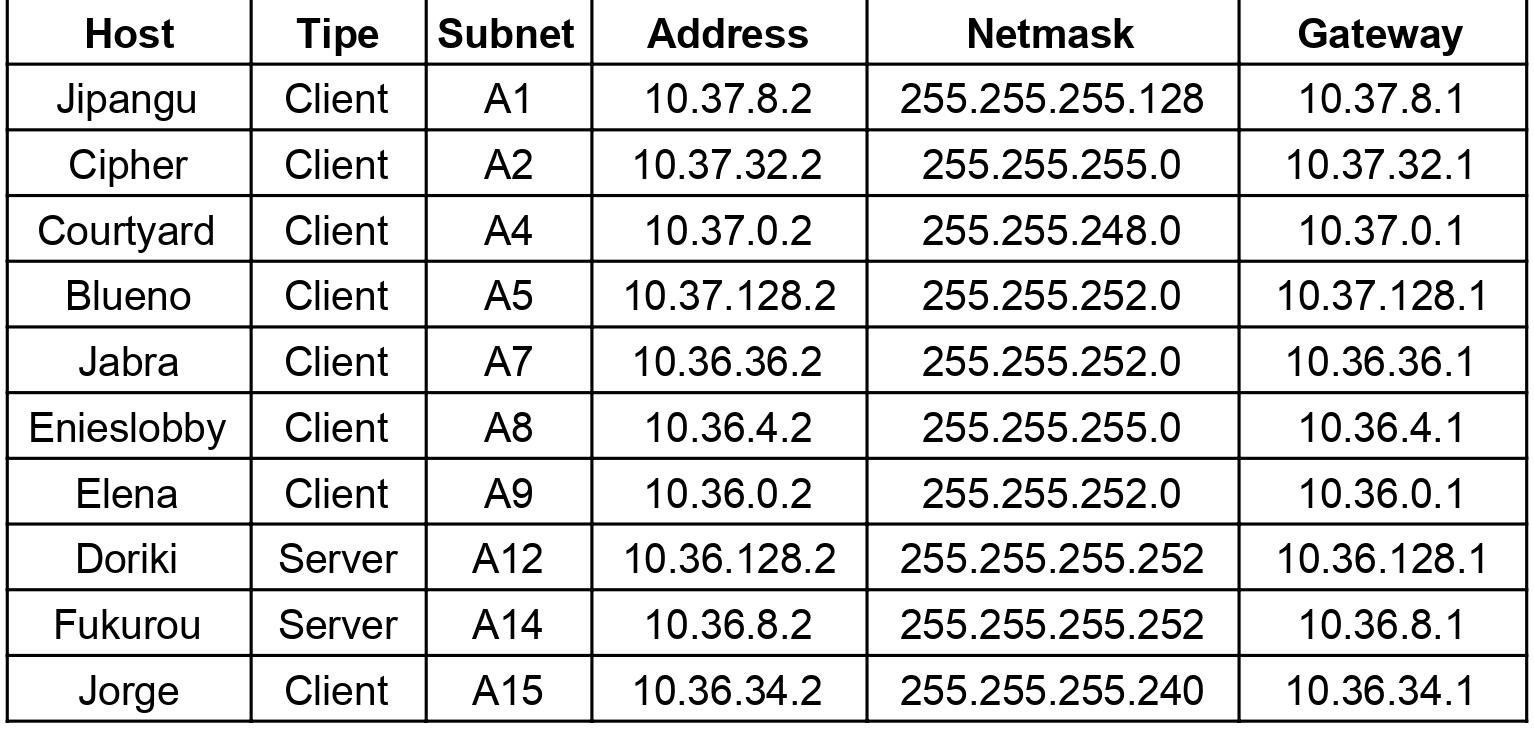
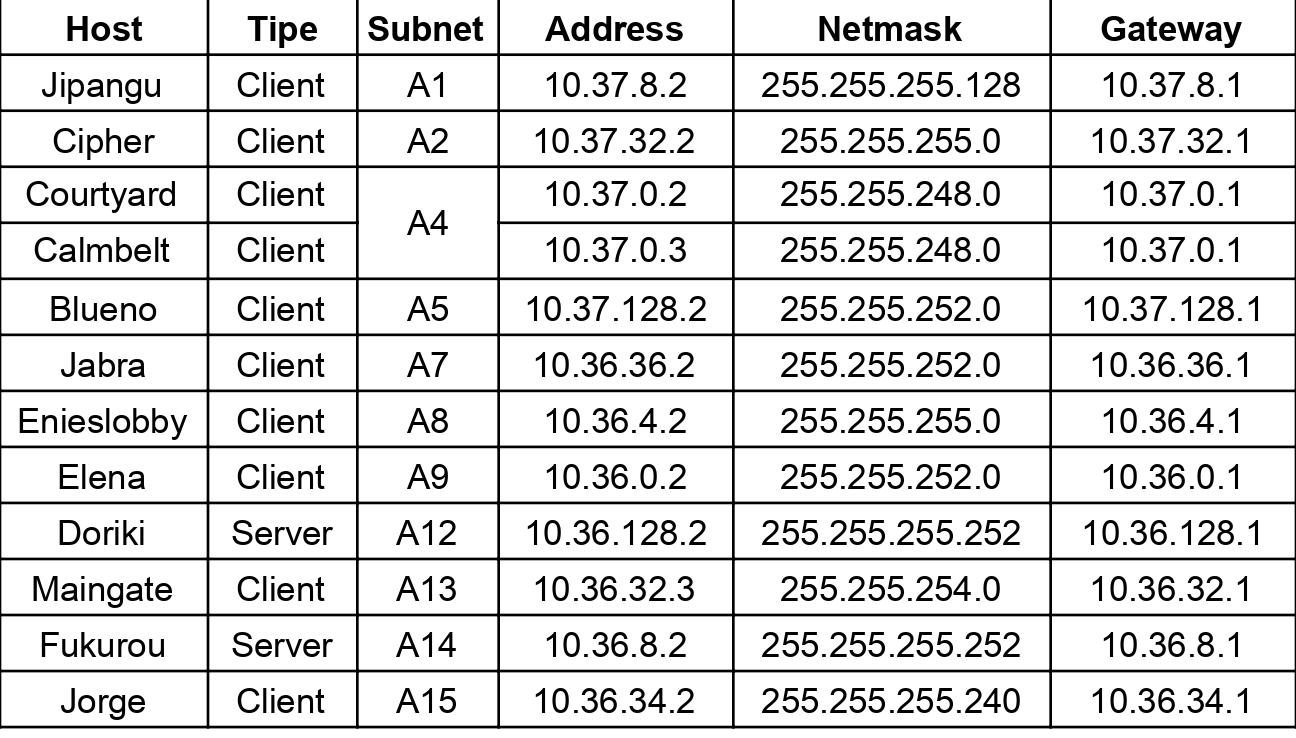
update README.md

diff --git a/README.md b/README.md
@@ -108,6 +108,8 @@ ip route 0.0.0.0 0.0.0.0 10.36.26.1                         #OIMO
 
 ## B. CIDR pada GNS3
 
+![topologi-gns3](img/topologi-gns3.png)
+
 ### 1. CIDR Subnetting
 
 Berikut proses penggabungan subnet-subnet dari paling bawah pada topologi:
@@ -279,7 +281,7 @@ Setelah didapatkan IP pada setiap subnet paling bawah, maka dicari netmask dan b
       auto eth3
       iface eth3 inet static
             address 10.36.64.1
-            255.255.255.252
+            netmask 255.255.255.252
 
       auto eth4
       iface eth4 inet static
@@ -428,6 +430,15 @@ Setelah didapatkan IP pada setiap subnet paling bawah, maka dicari netmask dan b
             address 10.37.0.2
             netmask 255.255.248.0
             gateway 10.37.0.1
+
+- Calmbelt
+      
+      
+      auto eth0
+      iface eth0 inet static
+            address 10.37.0.3
+            netmask 255.255.248.0
+            gateway 10.37.0.1
       
 
 - Blueno
@@ -469,6 +480,14 @@ Setelah didapatkan IP pada setiap subnet paling bawah, maka dicari netmask dan b
             netmask 255.255.252.0
             gateway 10.36.0.1
       
+- Maingate
+
+      auto eth0
+      iface eth0 inet static
+            address 10.36.32.3
+            netmask 255.255.254.0
+            gateway 10.36.32.1
+
 
 - Doriki
 
@@ -502,6 +521,65 @@ Setelah didapatkan IP pada setiap subnet paling bawah, maka dicari netmask dan b
 
 #### Routing
 
+- Foosha
+
+      route add -net 10.37.8.0 netmask 255.255.255.128 gw 10.37.64.2          #A1
+      route add -net 10.37.32.0 netmask 255.255.252.0 gw 10.37.64.2           #A2
+      route add -net 10.37.16.0 netmask 255.255.255.252 gw 10.37.64.2         #A3
+      route add -net 10.37.0.0 netmask 255.255.248.0 gw 10.37.64.2            #A4
+      route add -net 10.36.36.0 netmask 255.255.252.0 gw 10.36.64.2           #A7
+      route add -net 10.36.4.0 netmask 255.255.255.0 gw 10.36.64.2            #A8
+      route add -net 10.36.0.0 netmask 255.255.252.0 gw 10.36.64.2            #A9
+      route add -net 10.36.16.0 netmask 255.255.255.252 gw 10.36.64.2         #A11
+      route add -net 10.36.32.0 netmask 255.255.254.0 gw 10.36.64.2           #A13
+      route add -net 10.36.8.0 netmask 255.255.255.252 gw 10.36.64.2          #A14
+      route add -net 10.36.34.0 netmask 255.255.255.240 gw 10.36.64.2         #A15
+
+- Water7
+
+      route add -net 10.37.8.0 netmask 255.255.255.128 gw 10.37.16.2          #A1
+      route add -net 10.37.0.0 netmask 255.255.248.0 gw 10.37.16.2            #A4
+      route add -net 0.0.0.0 netmask 0.0.0.0 gw 10.37.64.1                    #A2
+
+- Pucci
+
+      route add -net 0.0.0.0 netmask 0.0.0.0 gw 10.37.16.1
+      route add -net 0.0.0.0 netmask 0.0.0.0 gw 10.37.16.1
+
+- Guanhao
+
+      route add -net 10.36.4.0 netmask 255.255.255.0 gw 10.36.16.2            #A8
+      route add -net 10.36.0.0 netmask 255.255.252.0 gw 10.36.16.2            #A9
+      route add -net 10.36.8.0 netmask 255.255.255.252 gw 10.36.16.2          #A14
+      route add -net 10.36.34.0 netmask 255.255.255.240 gw 10.36.32.2         #A15
+
+- Alabasta
+
+      route add -net 0.0.0.0 netmask 0.0.0.0 gw 10.36.32.1
+
+- Oimo
+
+      route add -net 10.36.0.0 netmask 255.255.252.0 gw 10.36.4.2             #A9
+
+- Seastone
+
+      route add -net 0.0.0.0 netmask 0.0.0.0 gw 10.36.0.1
+
+#### Iptables Foosha
+
+Pada router **Foosha** jalankan perintah berikut ini,
+      
+      iptables -t nat -A POSTROUTING -o eth0 -j MASQUERADE -s 10.36.0.0/15
+      iptables -t nat -A POSTROUTING -o eth0 -j MASQUERADE -s 10.37.0.0/16
+
+
+#### Setting resolv.conf
+
+Pada semua node selain Foosha, jalankan perintah berikut ini,
+
+      echo nameserver 192.168.122.1 > /etc/resolv.conf
+
+
 ## Kendala
 
-Masih belum terlalu paham membuat sintaks routing pada setiap router di GNS3 
+Masih belum terlalu paham sistem routing pada setiap router di GNS3 
